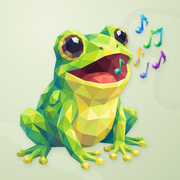
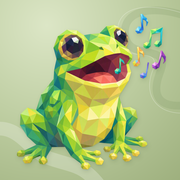
fix: use transparent frogie app marks

diff --git a/scripts/resize-logos.py b/scripts/resize-logos.py
@@ -15,16 +15,23 @@ def resize(image: Image.Image, size: int) -> Image.Image:
 
 
 def main() -> None:
+    foreground = Image.open(ROOT / "logo.png").convert("RGBA")
     square = Image.open(BRAND / "icon.png").convert("RGBA")
     rounded = Image.open(BRAND / "icon-rounded.png").convert("RGBA")
-    if square.size != (2048, 2048) or rounded.size != (2048, 2048):
+    if foreground.size != (2048, 2048) or square.size != foreground.size or rounded.size != foreground.size:
         raise ValueError("Expected the approved native 2048 × 2048 icon masters")
+    if foreground.getchannel("A").getextrema() != (0, 255):
+        raise ValueError("The foreground must preserve transparent space and opaque artwork")
     PUBLIC.mkdir(parents=True, exist_ok=True)
 
     for size in [24, 80]:
-        resize(rounded, size).save(PUBLIC / f"logo-{size}.png")
-    resize(rounded, 32).save(PUBLIC / "favicon.png")
-    rounded.save(PUBLIC / "favicon.ico", sizes=[(16, 16), (32, 32)])
+        resize(foreground, size).save(PUBLIC / f"logo-{size}.png")
+    resize(foreground, 32).save(PUBLIC / "favicon.png")
+    ico_sizes = [(16, 16), (32, 32)]
+    foreground.save(PUBLIC / "favicon.ico", sizes=ico_sizes)
+    with Image.open(PUBLIC / "favicon.ico") as icon:
+        if icon.ico.sizes() != set(ico_sizes):
+            raise ValueError("Favicon is missing an expected resolution")
     resize(square, 180).convert("RGB").save(PUBLIC / "apple-touch-icon.png")
 
     og = Image.new("RGB", (1200, 630), (15, 15, 15))

diff --git a/docs/logo.md b/docs/logo.md
@@ -1,15 +1,15 @@
 # Frogie identity
 
-The approved September 2026 identity keeps the seated singing frog, green and yellow facets, and rainbow notes. A pale sage field, quiet curved motifs, and shallow shadows form the application icon.
+The approved September 2026 identity keeps the seated singing frog, green and yellow facets, and rainbow notes. A deeper sage field, quiet curved motifs, and shallow shadows form the presentation icon.
 
 | Asset | Role |
 | --- | --- |
 | `logo.png` | Native 2048 × 2048 transparent foreground; canonical artwork |
 | `assets/brand/icon.png` | Approved square icon, including background and shadows |
-| `assets/brand/icon-rounded.png` | Approved rounded icon with transparent corners; README and in-app presentation |
+| `assets/brand/icon-rounded.png` | Rounded presentation with transparent corners; large README and social images |
 | `assets/brand/provenance.json` | Approval, source archive, and master checksums |
 
-The [hexly.ai study](https://github.com/nocoo/hexly.ai/tree/aeeac5d/artwork/logo-family/frogie/2026-09-06-01) preserves the previous logo, prompt, untouched Azure gpt-image-2 generation, masks, layers, and both finishing passes. This promotion uses finishing `02` without regeneration or recoloring. The [public logo gallery](https://hexly.ai/?view=logos&project=frogie) presents the current identity and its history.
+The hexly.ai study at `artwork/logo-family/frogie/2026-09-06-01/` preserves the previous logo, prompt, untouched Azure gpt-image-2 generation, masks, layers, and every finishing pass. This local adoption uses finishing `03`, the owner's deeper-background refinement. Its transparent foreground is byte-identical to adopted finishing `02`. The [local logo gallery](https://index.dev.hexly.ai/logos/frogie) presents the selected identity and its history. Publication of this follow-up remains paused.
 
 Regenerate all checked-in application derivatives with Python and Pillow:
 
@@ -17,6 +17,8 @@ Regenerate all checked-in application derivatives with Python and Pillow:
 uv run --with pillow --no-project scripts/resize-logos.py
 ```
 
-Sidebar and login images use the rounded master at 24 and 80 px. The favicon contains both 16 and 32 px entries. Apple touch uses the square master because the operating system applies its own corners. The Open Graph image places the rounded icon on the existing dark field. Never wrap the artwork in a circular crop or rebuild the approved sage background from a flat fill.
+Sidebar and login images use the transparent foreground at 24 and 80 px. The PNG favicon and verified 16/32 px ICO entries are also transparent, with no tile, background motif, or extra crop. README uses the rounded presentation at 128 px. Apple touch uses the square master because the operating system applies its own corners. The Open Graph image places the rounded icon on the existing dark field. Preserve the approved framing and never rebuild the sage background from a flat fill.
 
-The icon background is `#DCE6CA`; the artwork's sampled leaf green is `#86C32C`. Existing UI theme tokens, including primary `#21C45D`, remain their own documented palette. Musical notes belong to the mascot; Frogie is an AI agent workspace.
+The icon background is `#BBCB9E`; the artwork's sampled leaf green is `#86C32C`. Existing UI theme tokens, including primary `#21C45D`, remain their own documented palette. Musical notes belong to the mascot; Frogie is an AI agent workspace.
+
+Shared usage and adoption SOP: `hexly.ai/docs/07-logo-usage-sop.md`. Audit both sidebar states, login, README, browser metadata, and the two complete review pages after regeneration.
